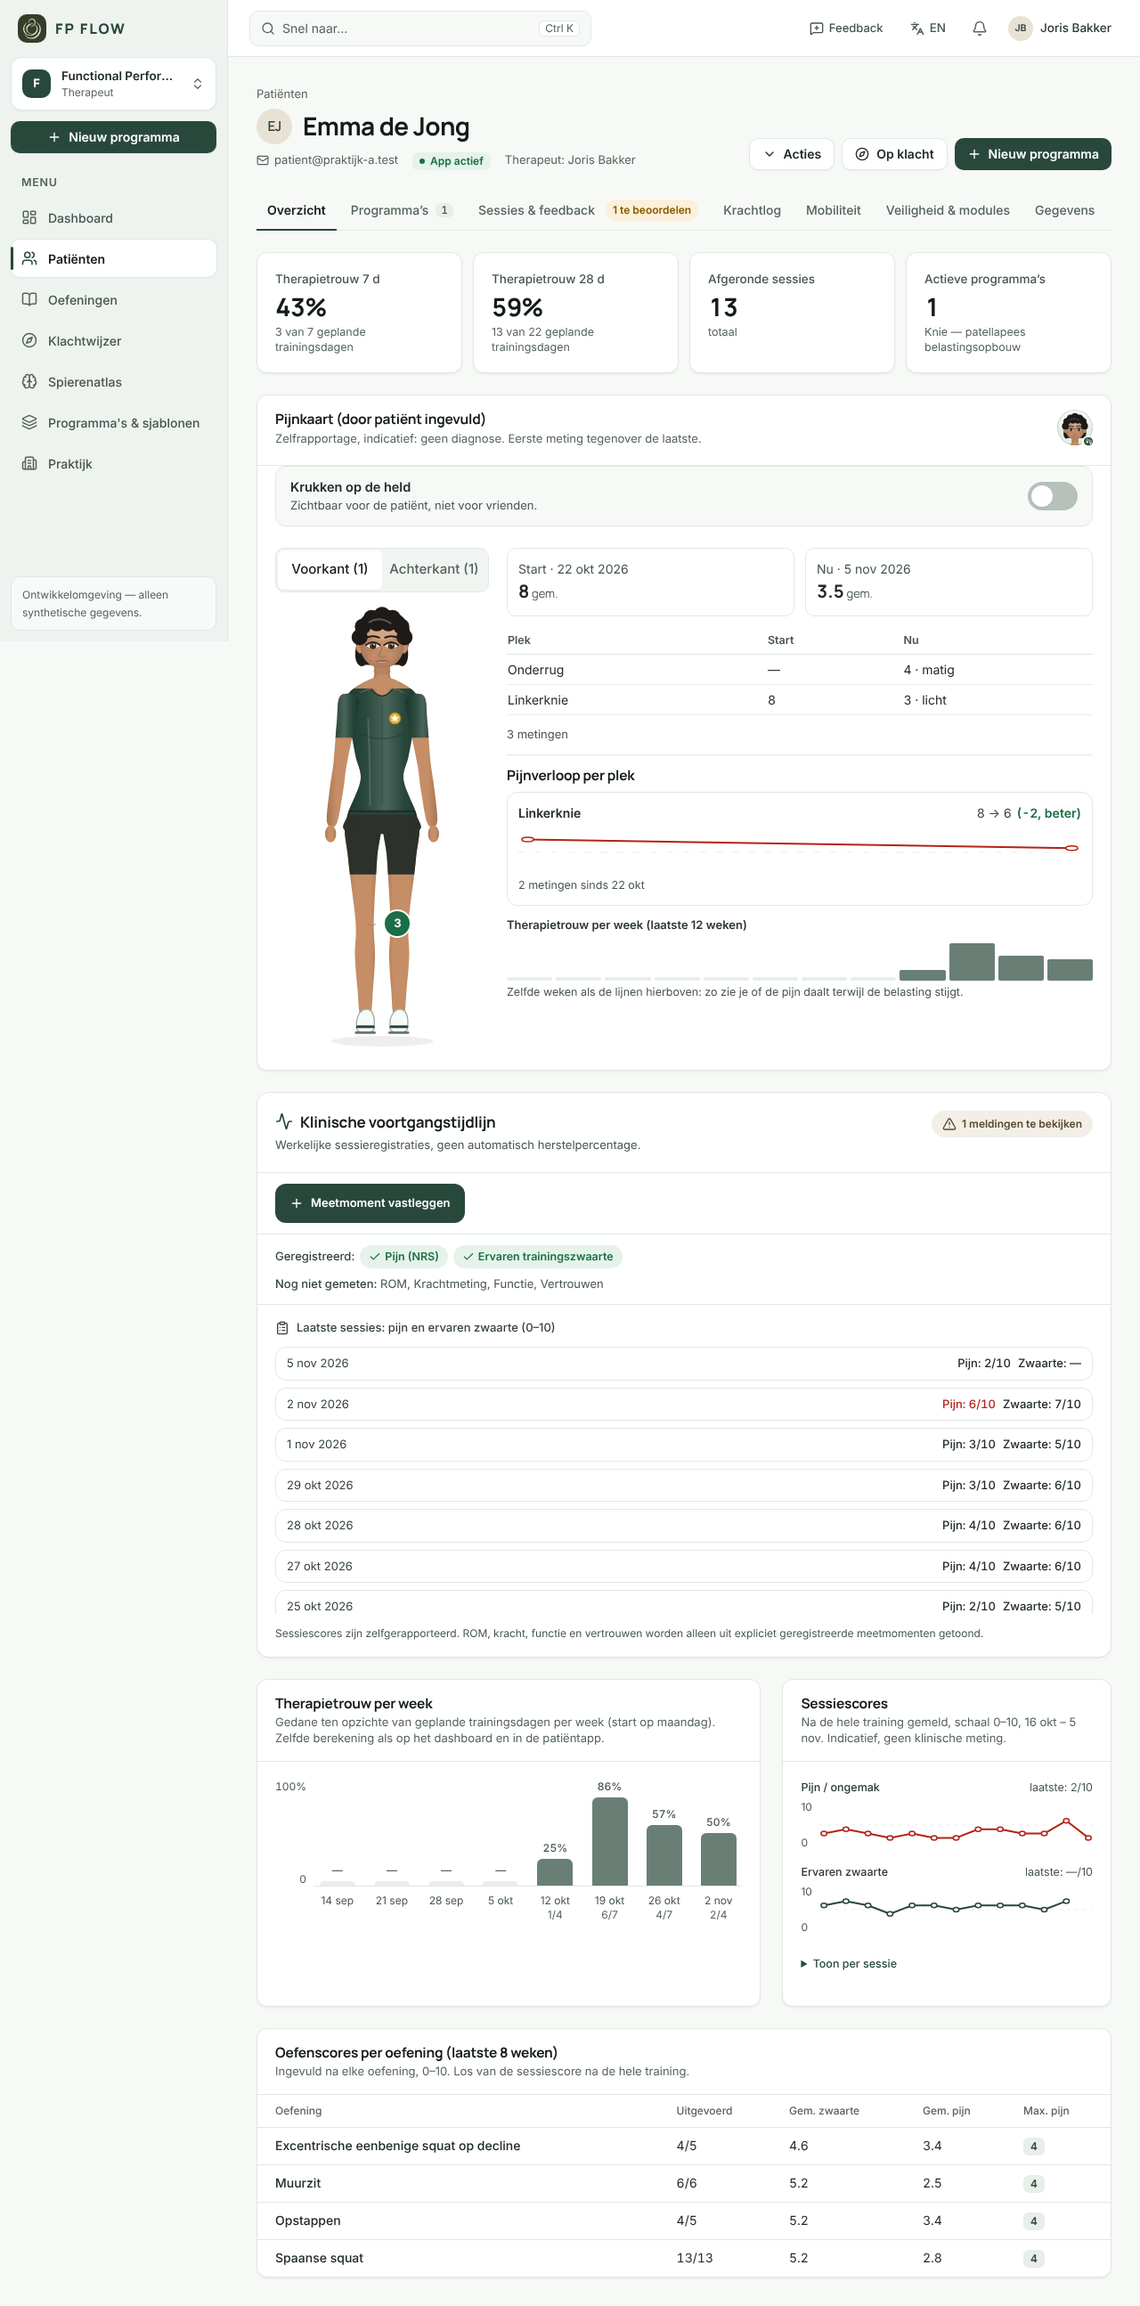
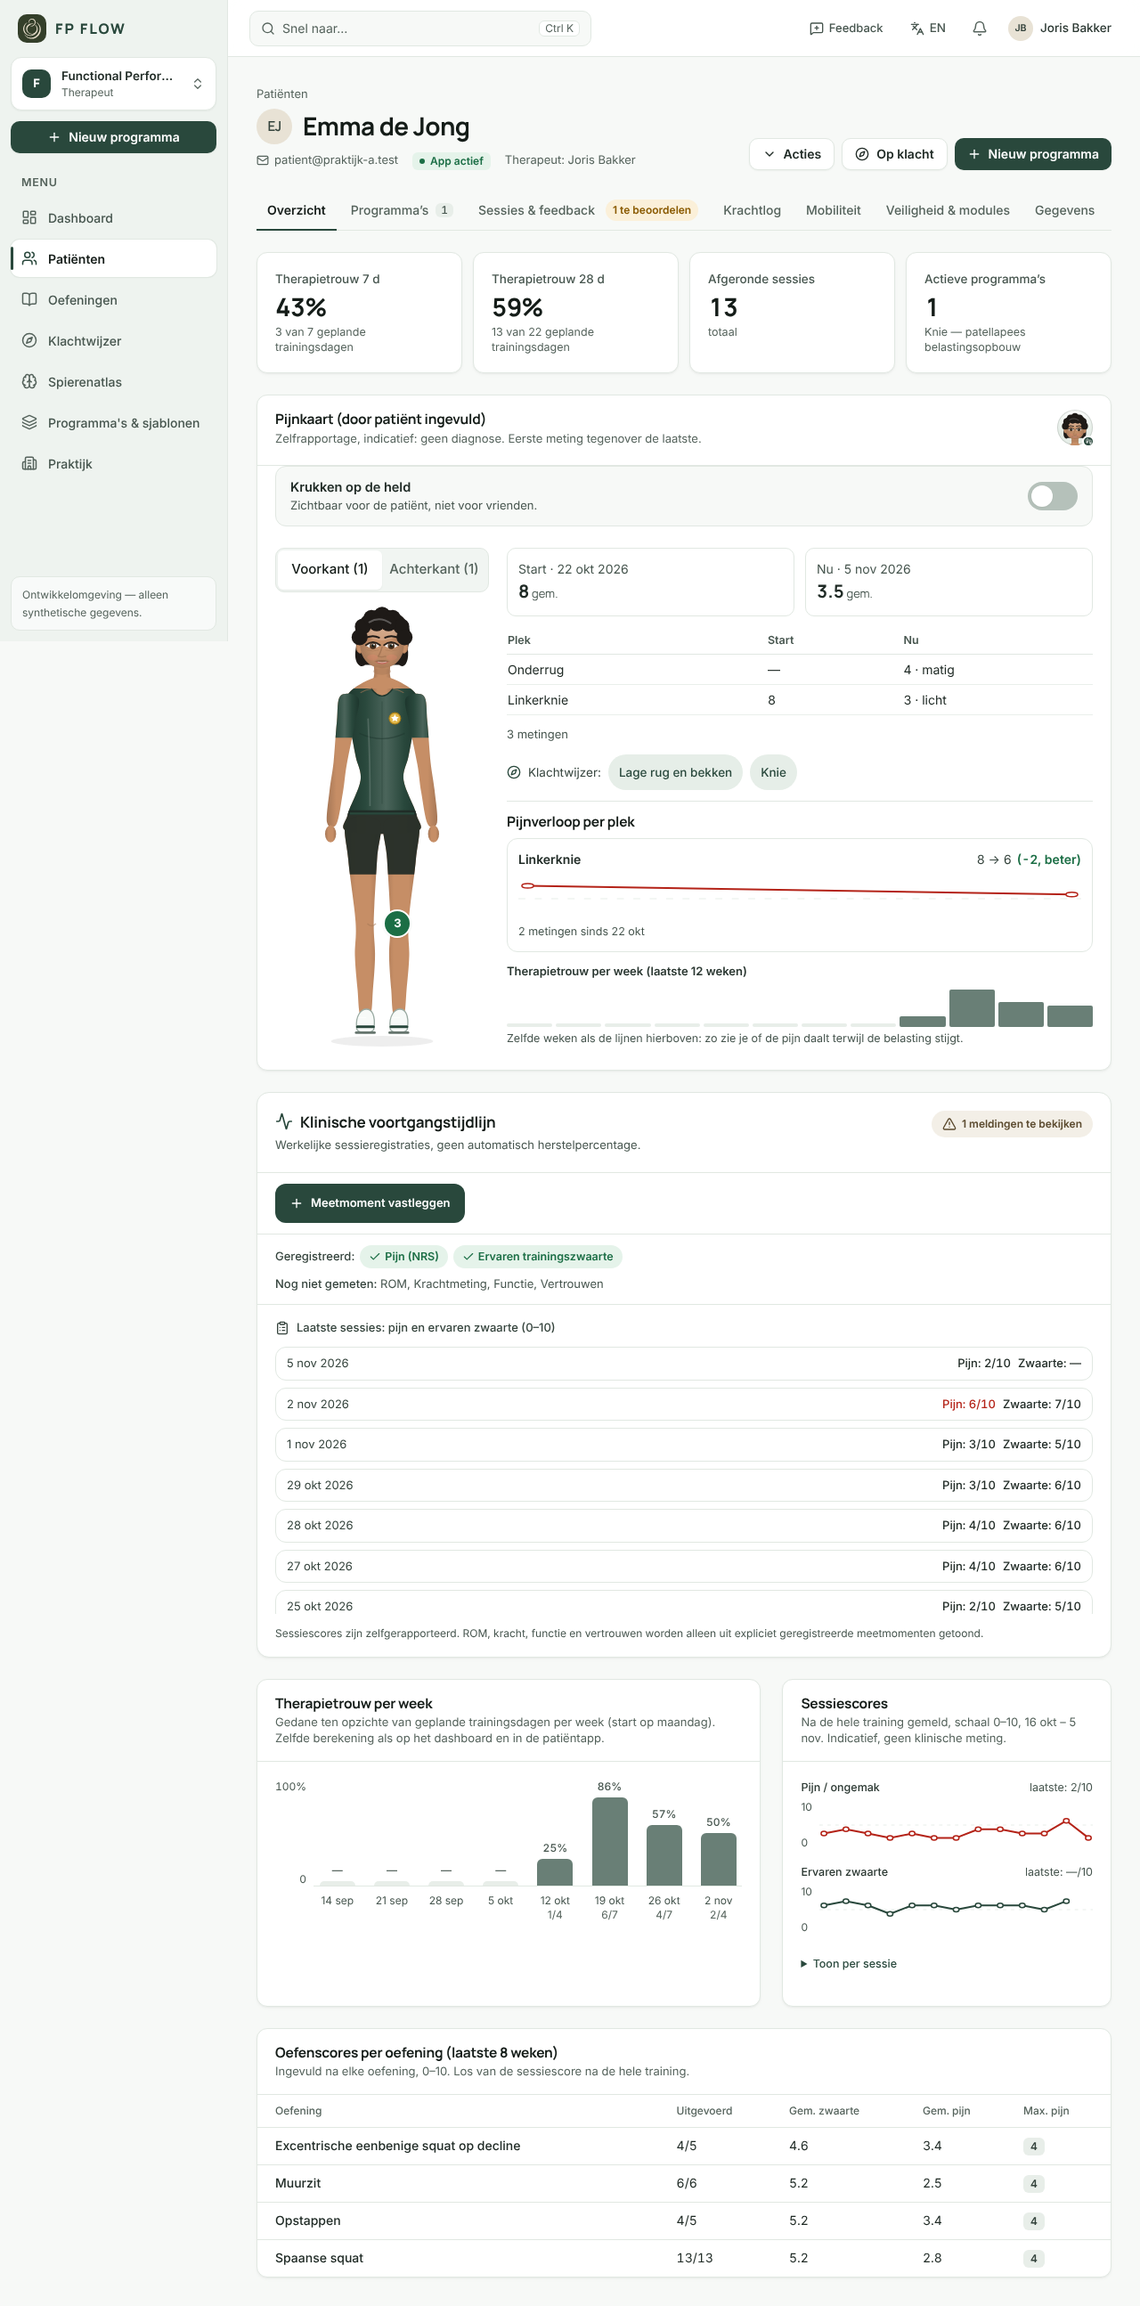
Complaint guide: phases (irritable, building up, back to sport) and links from the patient's pain map
Claude-Session: https://claude.ai/code/session_01LX8STJNNDwUxbGDdeQr5p6

Changed region(s): [[0.4375, 0.309, 0.7188, 0.4326], [0.7812, 0.3399, 0.9688, 0.4635]]

diff --git a/shared/complaints.ts b/shared/complaints.ts
@@ -311,6 +311,16 @@ export const COMPLAINTS: readonly Complaint[] = [
   { key: 'mtss', region: 'enkel_voet', name: ['Scheenbeenvliesklachten', 'Shin splints'], synonyms: ['mtss', 'shin splints', 'scheenbeenvliesontsteking'], what: ['Pijn langs de binnenrand van het scheenbeen bij hardlopen; belasting tijdelijk aanpassen en kuit en voet sterker maken.', 'Pain along the inner edge of the shin when running; adjust the load for a while and strengthen calf and foot.'], chains: ['achter', 'lateraal_heup'], compensations: ['voetboog', 'enkel_beperkt', 'tfl_gmed'] },
 ];
 
+/** The guide region for a pain-map area (patient body map). */
+const AREA_REGION: Record<string, RegionKey> = {
+  head: 'nek', neck: 'nek', shoulder_l: 'schouder', shoulder_r: 'schouder', chest: 'bovenrug', upper_back: 'bovenrug',
+  elbow_l: 'elleboog_pols', elbow_r: 'elleboog_pols', wrist_l: 'elleboog_pols', wrist_r: 'elleboog_pols',
+  abdomen: 'lage_rug', lower_back: 'lage_rug', buttock_l: 'heup', buttock_r: 'heup', hip_l: 'heup', hip_r: 'heup',
+  thigh_l: 'knie', thigh_r: 'knie', hamstring_l: 'heup', hamstring_r: 'heup', knee_l: 'knie', knee_r: 'knie',
+  calf_l: 'enkel_voet', calf_r: 'enkel_voet', ankle_l: 'enkel_voet', ankle_r: 'enkel_voet',
+};
+export const regionForArea = (area: string): RegionKey | null => AREA_REGION[area] ?? null;
+
 export const regionOf = (key: string) => REGIONS.find((r) => r.key === key) ?? null;
 export const chainOf = (key: string) => CHAINS.find((c) => c.key === key) ?? null;
 export const compensationOf = (key: string) => COMPENSATIONS.find((c) => c.key === key) ?? null;
@@ -355,7 +365,22 @@ export type ProposalBlock = 'calm' | 'activate' | 'function';
  * atlas muscles): calm/mobilise what takes over, activate and strengthen the weak link, and
  * functional work. Exercises whose name fits a compensation's approach come first.
  */
-export function proposeExercises(c: Complaint, exercises: ProposalExercise[], perBlock = 5) {
+export type GuidePhase = 'prikkelbaar' | 'opbouw' | 'sport';
+
+/** Phases of loading, with general dosing guidance (the therapist sets the actual dose). */
+export const GUIDE_PHASES: readonly { key: GuidePhase; name: Fn; when: Fn; dose: Fn }[] = [
+  { key: 'prikkelbaar', name: ['Prikkelbaar', 'Irritable'], when: ['Veel pijn, net begonnen of snel opvlammend.', 'A lot of pain, just started or flaring easily.'],
+    dose: ['Rustig: isometrie (bijv. 5× 30–45 s) en ontlasten, dagelijks. Pijn tijdens max 3 van 10 en niet meer pijn de volgende ochtend. Nog geen springen of snelheid.', 'Gentle: isometrics (e.g. 5× 30–45 s) and offloading, daily. Pain during at most 3 out of 10 and no more pain the next morning. No jumping or speed yet.'] },
+  { key: 'opbouw', name: ['Opbouwen', 'Building up'], when: ['Pijn is rustiger; tijd om sterker te worden.', 'Pain has settled; time to get stronger.'],
+    dose: ['Kracht: 3× 8–15 herhalingen, 2–3 keer per week. Zwaarder als de laatste set makkelijk gaat. Pijn max 3–4 van 10, de volgende ochtend weer rustig.', 'Strength: 3× 8–15 reps, 2–3 times a week. Heavier when the last set is easy. Pain at most 3–4 out of 10, settled by the next morning.'] },
+  { key: 'sport', name: ['Terug naar sport of werk', 'Back to sport or work'], when: ['Kracht is goed; nu snelheid, springen en de echte beweging.', 'Strength is good; now speed, jumping and the real movement.'],
+    dose: ['Functioneel en explosief: springen, landen, richting wisselen. Kwaliteit voor hoeveelheid, tussen sessies 48 uur. Geen toename van pijn of zwelling de volgende dag.', 'Functional and explosive: jumping, landing, changing direction. Quality over quantity, 48 hours between sessions. No increase in pain or swelling the next day.'] },
+];
+
+const ISO = ['isometr', 'statisch', 'muurzit', 'wall sit', 'plank', 'hold', 'vasthouden', 'tegen muur', 'tegen deurpost', 'kin intrekken'];
+const PLYO = ['sprong', 'spring', 'hop', 'bound', 'pogo', 'landing', 'jump', 'copenhagen', 'lateral', 'zijwaarts'];
+
+export function proposeExercises(c: Complaint, exercises: ProposalExercise[], perBlock = 5, phase: GuidePhase = 'opbouw') {
   const { train, calm } = complaintMuscles(c);
   const comps = c.compensations.map(compensationOf).filter((x): x is Compensation => !!x);
   // The first compensation of a complaint is the main one: its words and muscles weigh most.
@@ -364,8 +389,11 @@ export function proposeExercises(c: Complaint, exercises: ProposalExercise[], pe
   const hits = (e: ProposalExercise, list: string[]) => e.muscles.reduce((sum, m) => (list.includes(m) ? sum + (list.length - list.indexOf(m)) : sum), 0);
   // A complaint's own muscles (e.g. the wrist extensors for tennis elbow) come before the chain.
   const ownHits = (e: ProposalExercise, own: readonly string[]) => e.muscles.filter((m) => own.includes(m)).length;
+  // The phase moves exercises up: isometrics when irritable, jumping and landing for sport.
+  const has = (e: ProposalExercise, words: string[]) => words.some((w) => norm(e.nameNl).includes(w) || norm(e.nameEn).includes(w));
+  const phaseBonus = (e: ProposalExercise) => (phase === 'prikkelbaar' ? (has(e, ISO) ? 1 : 0) : phase === 'sport' ? (has(e, PLYO) ? 1 : 0) : 0);
   const rank = (list: ProposalExercise[], target: string[], own: readonly string[] = c.train ?? []) =>
-    [...list].sort((a, b) => ownHits(b, own) - ownHits(a, own) || fits(b) - fits(a) || hits(b, target) - hits(a, target) || a.nameNl.localeCompare(b.nameNl));
+    [...list].sort((a, b) => phaseBonus(b) - phaseBonus(a) || ownHits(b, own) - ownHits(a, own) || fits(b) - fits(a) || hits(b, target) - hits(a, target) || a.nameNl.localeCompare(b.nameNl));
   const avoid = [...comps.flatMap((x) => x.avoid ?? []), ...(c.avoid?.words ?? [])].map(norm);
   const used = new Set<string>(exercises.filter((e) => avoid.some((w) => norm(e.nameNl).includes(w) || norm(e.nameEn).includes(w))).map((e) => e.id));
   const take = (list: ProposalExercise[]) => {
@@ -384,7 +412,9 @@ export function proposeExercises(c: Complaint, exercises: ProposalExercise[], pe
   // Calm and mobilise: stretches for what takes over, plus nerve sliders for radiating complaints.
   const sliders = exercises.filter((e) => e.kind === 'zenuw' && !!e.nerve && (c.nerves ?? []).includes(e.nerve));
   const calmList = take([...sliders, ...rank(exercises.filter((e) => e.kind === 'rek' && hits(e, [...calm, ...train]) > 0), calm, c.calm ?? [])]);
-  const func = take(rank(exercises.filter((e) => (e.kind === 'kracht' || e.kind === 'revalidatie') && isFunctional(e) && hits(e, train) > 0), train));
+  // Irritable: no jumping; functional work is limited to calm balance and control.
+  const funcPool = exercises.filter((e) => (e.kind === 'kracht' || e.kind === 'revalidatie') && (isFunctional(e) || (phase === 'sport' && has(e, PLYO))) && hits(e, train) > 0 && !(phase === 'prikkelbaar' && has(e, PLYO)));
+  const func = take(rank(funcPool, train)).slice(0, phase === 'prikkelbaar' ? 2 : perBlock);
   return { calm: calmList, activate, function: func, train, calmMuscles: calm };
 }
 

diff --git a/web/src/pages/therapist/ComplaintGuidePage.tsx b/web/src/pages/therapist/ComplaintGuidePage.tsx
@@ -6,11 +6,11 @@ import { api } from '@/lib/api';
 import { useI18n } from '@/lib/i18n';
 import { useDocumentMeta } from '@/lib/meta';
 import { cn } from '@/lib/cn';
-import { Button, ErrorState, PageHeader, Spinner } from '@/components/ui';
+import { Button, ErrorState, PageHeader, Segmented, Spinner } from '@/components/ui';
 import { CompensationCard, MuscleChips } from '@/components/app/Compensation';
 import { MUSCLES } from '@shared/muscleAtlas';
 import { mobilityTest } from '@shared/mobilityTests';
-import { CHAINS, REGIONS, chainOf, complaintMuscles, complaintOf, complaintsIn, compensationOf, proposeExercises, searchComplaints, whyFor, type Compensation, type Complaint, type ProposalExercise, type RegionKey } from '@shared/complaints';
+import { CHAINS, REGIONS, chainOf, complaintMuscles, complaintOf, complaintsIn, compensationOf, proposeExercises, searchComplaints, whyFor, GUIDE_PHASES, type GuidePhase, type Compensation, type Complaint, type ProposalExercise, type RegionKey } from '@shared/complaints';
 
 type AtlasData = { exercises: (ProposalExercise & { own: boolean })[] };
 type Fn = readonly [string, string];
@@ -115,10 +115,16 @@ function ComplaintCard({ complaint, redFlags, patient, onBack }: { complaint: Co
   const atlas = useQuery({ queryKey: ['atlas-staff'], queryFn: () => api.get<AtlasData>('/atlas'), staleTime: 5 * 60_000 });
   const comps = complaint.compensations.map(compensationOf).filter((x): x is Compensation => !!x);
   const muscles = complaintMuscles(complaint);
-  const proposal = useMemo(() => (atlas.data ? proposeExercises(complaint, atlas.data.exercises) : null), [atlas.data, complaint]);
+  const [phase, setPhase] = useState<GuidePhase>('opbouw');
+  const proposal = useMemo(() => (atlas.data ? proposeExercises(complaint, atlas.data.exercises, 5, phase) : null), [atlas.data, complaint, phase]);
   // Ticked by default: the first three of each block.
   const [ticked, setTicked] = useState<Set<string> | null>(null);
-  const defaults = useMemo(() => new Set(proposal ? [...proposal.calm.slice(0, 2), ...proposal.activate.slice(0, 3), ...proposal.function.slice(0, 2)].map((e) => e.id) : []), [proposal]);
+  // Ticked by default, per phase: irritable = offload + isometric, sport = mostly functional.
+  const defaults = useMemo(() => {
+    if (!proposal) return new Set<string>();
+    const [c, a, f] = phase === 'prikkelbaar' ? [2, 3, 0] : phase === 'sport' ? [1, 2, 4] : [2, 3, 2];
+    return new Set([...proposal.calm.slice(0, c), ...proposal.activate.slice(0, a), ...proposal.function.slice(0, f)].map((e) => e.id));
+  }, [proposal, phase]);
   const chosen = ticked ?? defaults;
   const toggle = (id: string) => {
     const next = new Set(chosen);
@@ -136,7 +142,7 @@ function ComplaintCard({ complaint, redFlags, patient, onBack }: { complaint: Co
     } catch {
       /* storage unavailable: no notes */
     }
-    const p = new URLSearchParams({ oefeningen: ordered.map((e) => e.id).join(','), titel: L(complaint.name) });
+    const p = new URLSearchParams({ oefeningen: ordered.map((e) => e.id).join(','), titel: phase === 'opbouw' ? L(complaint.name) : `${L(complaint.name)} · ${L(GUIDE_PHASES.find((x) => x.key === phase)!.name).toLowerCase()}` });
     if (patient) p.set('patient', patient);
     nav(`/app/programmas/nieuw?${p}`);
   };
@@ -204,6 +210,11 @@ function ComplaintCard({ complaint, redFlags, patient, onBack }: { complaint: Co
 
       <section aria-labelledby="prop-title" className="rounded-2xl border border-line bg-white p-5 shadow-card">
         <h3 id="prop-title" className="flex items-center gap-2 font-semibold text-ink-900"><Sparkles className="h-4 w-4 text-accent" aria-hidden />{t('Oefenvoorstel uit je bibliotheek', 'Exercise proposal from your library')}</h3>
+        <div className="mt-3 space-y-2">
+          <Segmented<GuidePhase> size="lg" label={t('Fase', 'Phase')} value={phase} onChange={(v) => { setPhase(v); setTicked(null); }}
+            options={GUIDE_PHASES.map((x) => ({ value: x.key, label: L(x.name) }))} />
+          {(() => { const ph = GUIDE_PHASES.find((x) => x.key === phase)!; return <p className="text-[13.5px] text-ink-700"><span className="font-medium">{L(ph.when)}</span> {L(ph.dose)}</p>; })()}
+        </div>
         {atlas.isLoading && <Spinner className="py-8" />}
         {atlas.isError && <ErrorState error={atlas.error} onRetry={() => void atlas.refetch()} />}
         {proposal && (

diff --git a/shared/complaints.test.ts b/shared/complaints.test.ts
@@ -1,5 +1,6 @@
 import { describe, it, expect } from 'vitest';
-import { CHAINS, COMPENSATIONS, COMPLAINTS, REGIONS, complaintMuscles, complaintsIn, muscleInChains, proposeExercises, searchComplaints, whyFor, type ProposalExercise } from './complaints';
+import { BODY_AREAS } from './hero';
+import { CHAINS, COMPENSATIONS, COMPLAINTS, REGIONS, regionForArea, complaintMuscles, complaintsIn, muscleInChains, proposeExercises, searchComplaints, whyFor, type ProposalExercise } from './complaints';
 import { MUSCLES, NERVES } from './muscleAtlas';
 import { MOBILITY_TESTS } from './mobilityTests';
 
@@ -92,5 +93,24 @@ describe('plain words for the patient', () => {
     expect(g.asWeak.map((c) => c.key)).toContain('tfl_gmed');
     expect(g.complaints.map((c) => c.key)).toEqual(expect.arrayContaining(['itbs', 'pfps']));
     expect(muscleInChains('tfl').asOver.map((c) => c.key)).toEqual(['tfl_gmed']);
+  });
+});
+
+
+
+
+describe('phases and the pain map', () => {
+  const ex = (id: string, nameNl: string, muscles: string[]): ProposalExercise => ({ id, nameNl, nameEn: nameNl, kind: 'kracht', muscles });
+  const lib = [ex('iso', 'Isometrische heupabductie tegen muur', ['gluteus_medius']), ex('side', 'Zijlig heupabductie', ['gluteus_medius']), ex('jump', 'Laterale sprong met landing', ['gluteus_medius']), ex('step', 'Step-down', ['gluteus_medius'])];
+  const itbs = COMPLAINTS.find((c) => c.key === 'itbs')!;
+  it('irritable: isometrics first and no jumping; sport: jumping first', () => {
+    const calm = proposeExercises(itbs, lib, 5, 'prikkelbaar');
+    expect(calm.activate[0].id).toBe('iso');
+    expect([...calm.activate, ...calm.function].map((e) => e.id)).not.toContain('jump');
+    const sport = proposeExercises(itbs, lib, 5, 'sport');
+    expect(sport.function[0].id).toBe('jump');
+  });
+  it('every pain-map area leads to a guide region', () => {
+    for (const a of BODY_AREAS) expect(regionForArea(a.key), a.key).toBeTruthy();
   });
 });

diff --git a/web/src/components/hero/PainMapCard.tsx b/web/src/components/hero/PainMapCard.tsx
@@ -1,4 +1,7 @@
 import { useState } from 'react';
+import { Link } from 'react-router-dom';
+import { Compass } from 'lucide-react';
+import { regionForArea, regionOf } from '@shared/complaints';
 import { useQuery, useQueryClient } from '@tanstack/react-query';
 import { api } from '@/lib/api';
 import { describeError, useI18n } from '@/lib/i18n';
@@ -65,6 +68,17 @@ export function PainMapCard({ patientId }: { patientId: string }) {
               </table>
             )}
             <p className="text-[13px] text-ink-600">{t(`${painMap.checkins} ${painMap.checkins === 1 ? 'meting' : 'metingen'}`, `${painMap.checkins} check-in(s)`)}</p>
+            {/* Straight to the complaint guide for the painful regions, with this patient. */}
+            {(() => {
+              const regions = [...new Set(areas.filter((a) => now[a.key] !== undefined).map((a) => regionForArea(a.key)).filter((r): r is NonNullable<typeof r> => !!r))];
+              if (!regions.length) return null;
+              return (
+                <p className="flex flex-wrap items-center gap-2 text-[13.5px] text-ink-700">
+                  <Compass className="h-4 w-4 text-accent" aria-hidden />{t('Klachtwijzer', 'Complaint guide')}:
+                  {regions.map((r) => <Link key={r} to={`/app/klachtwijzer?regio=${r}&patient=${patientId}`} className="inline-flex min-h-[40px] items-center rounded-full bg-accent-soft px-3 font-medium text-accent hover:underline">{nl ? regionOf(r)!.name[0] : regionOf(r)!.name[1]}</Link>)}
+                </p>
+              );
+            })()}
             {q.data.trends.some((tr) => tr.points.length > 1) && (
               <div className="border-t border-line pt-3">
                 <h3 className="t-card mb-2">{t('Pijnverloop per plek', 'Pain trend per area')}</h3>

diff --git a/e2e/complaint-guide.spec.ts b/e2e/complaint-guide.spec.ts
@@ -26,6 +26,10 @@ test('complaint guide: search, chain, compensation with test, red flags, proposa
   await expect(proposal.getByRole('checkbox').first()).toBeVisible();
   await expect(proposal.getByText(/machine/i)).toHaveCount(0);
   await expectAccessible(page, 'complaint card');
+  // Phases: irritable leaves functional unticked and says how to dose; back to "building up".
+  await proposal.getByRole('radio', { name: 'Prikkelbaar' }).click();
+  await expect(proposal.getByText(/isometrie \(bijv\. 5× 30–45 s\)/)).toBeVisible();
+  await proposal.getByRole('radio', { name: 'Opbouwen' }).click();
   const n = await proposal.getByRole('checkbox', { checked: true }).count();
   expect(n).toBeGreaterThan(0);
   await proposal.getByRole('button', { name: /Programma maken/ }).click();

diff --git a/e2e/hero.spec.ts b/e2e/hero.spec.ts
@@ -194,6 +194,8 @@ test('patient creates a sports hero on the first visit and marks where it hurts'
   // Pain trend per area next to adherence.
   await expect(page.getByRole('heading', { name: 'Pijnverloop per plek' })).toBeVisible();
   await expect(page.getByRole('list', { name: 'Therapietrouw per week' })).toBeVisible();
+  // From the painful area straight to the complaint guide, with this patient.
+  await expect(page.getByRole('link', { name: 'Knie' }).first()).toHaveAttribute('href', new RegExp(`/app/klachtwijzer\\?regio=knie&patient=${emma.id}`));
   await expectAccessible(page, 'therapist pain map');
   await page.screenshot({ path: 'screenshots/hero/therapist.png', fullPage: true });
 });

diff --git a/docs/MASTERPLAN.md b/docs/MASTERPLAN.md
@@ -71,6 +71,12 @@ Status: `[x]` klaar en live · `[ ]` nog te doen.
 27. [x] **Atlas: ketens en "neemt vaak over van"** bij spieren.
 28. [x] **Klinische controle**: alle wijzerteksten op één pagina om af te tekenen.
 
+## Fase 7 – Klachtwijzer slimmer
+29. [x] **Van pijnkaart naar wijzer.** Bij de pijnkaart van de patiënt: per pijnlijke regio een
+    knop naar de klachtwijzer, met de patiënt al gekoppeld.
+30. [x] **Fase kiezen.** Prikkelbaar, opbouwen of terug naar sport: het voorstel verschuift
+    (isometrie en ontlasten / kracht / springen en functioneel), met een doseringsrichtlijn.
+
 ## Vraagt jouw beslissing (Claude wacht hierop)
 - Render Starter (betaald) en een vaste schijf voor video's (`STORAGE_DIR`).
 - `DEMO_PASSWORD` instellen in Render (zelf doen, niet naar Claude sturen).
